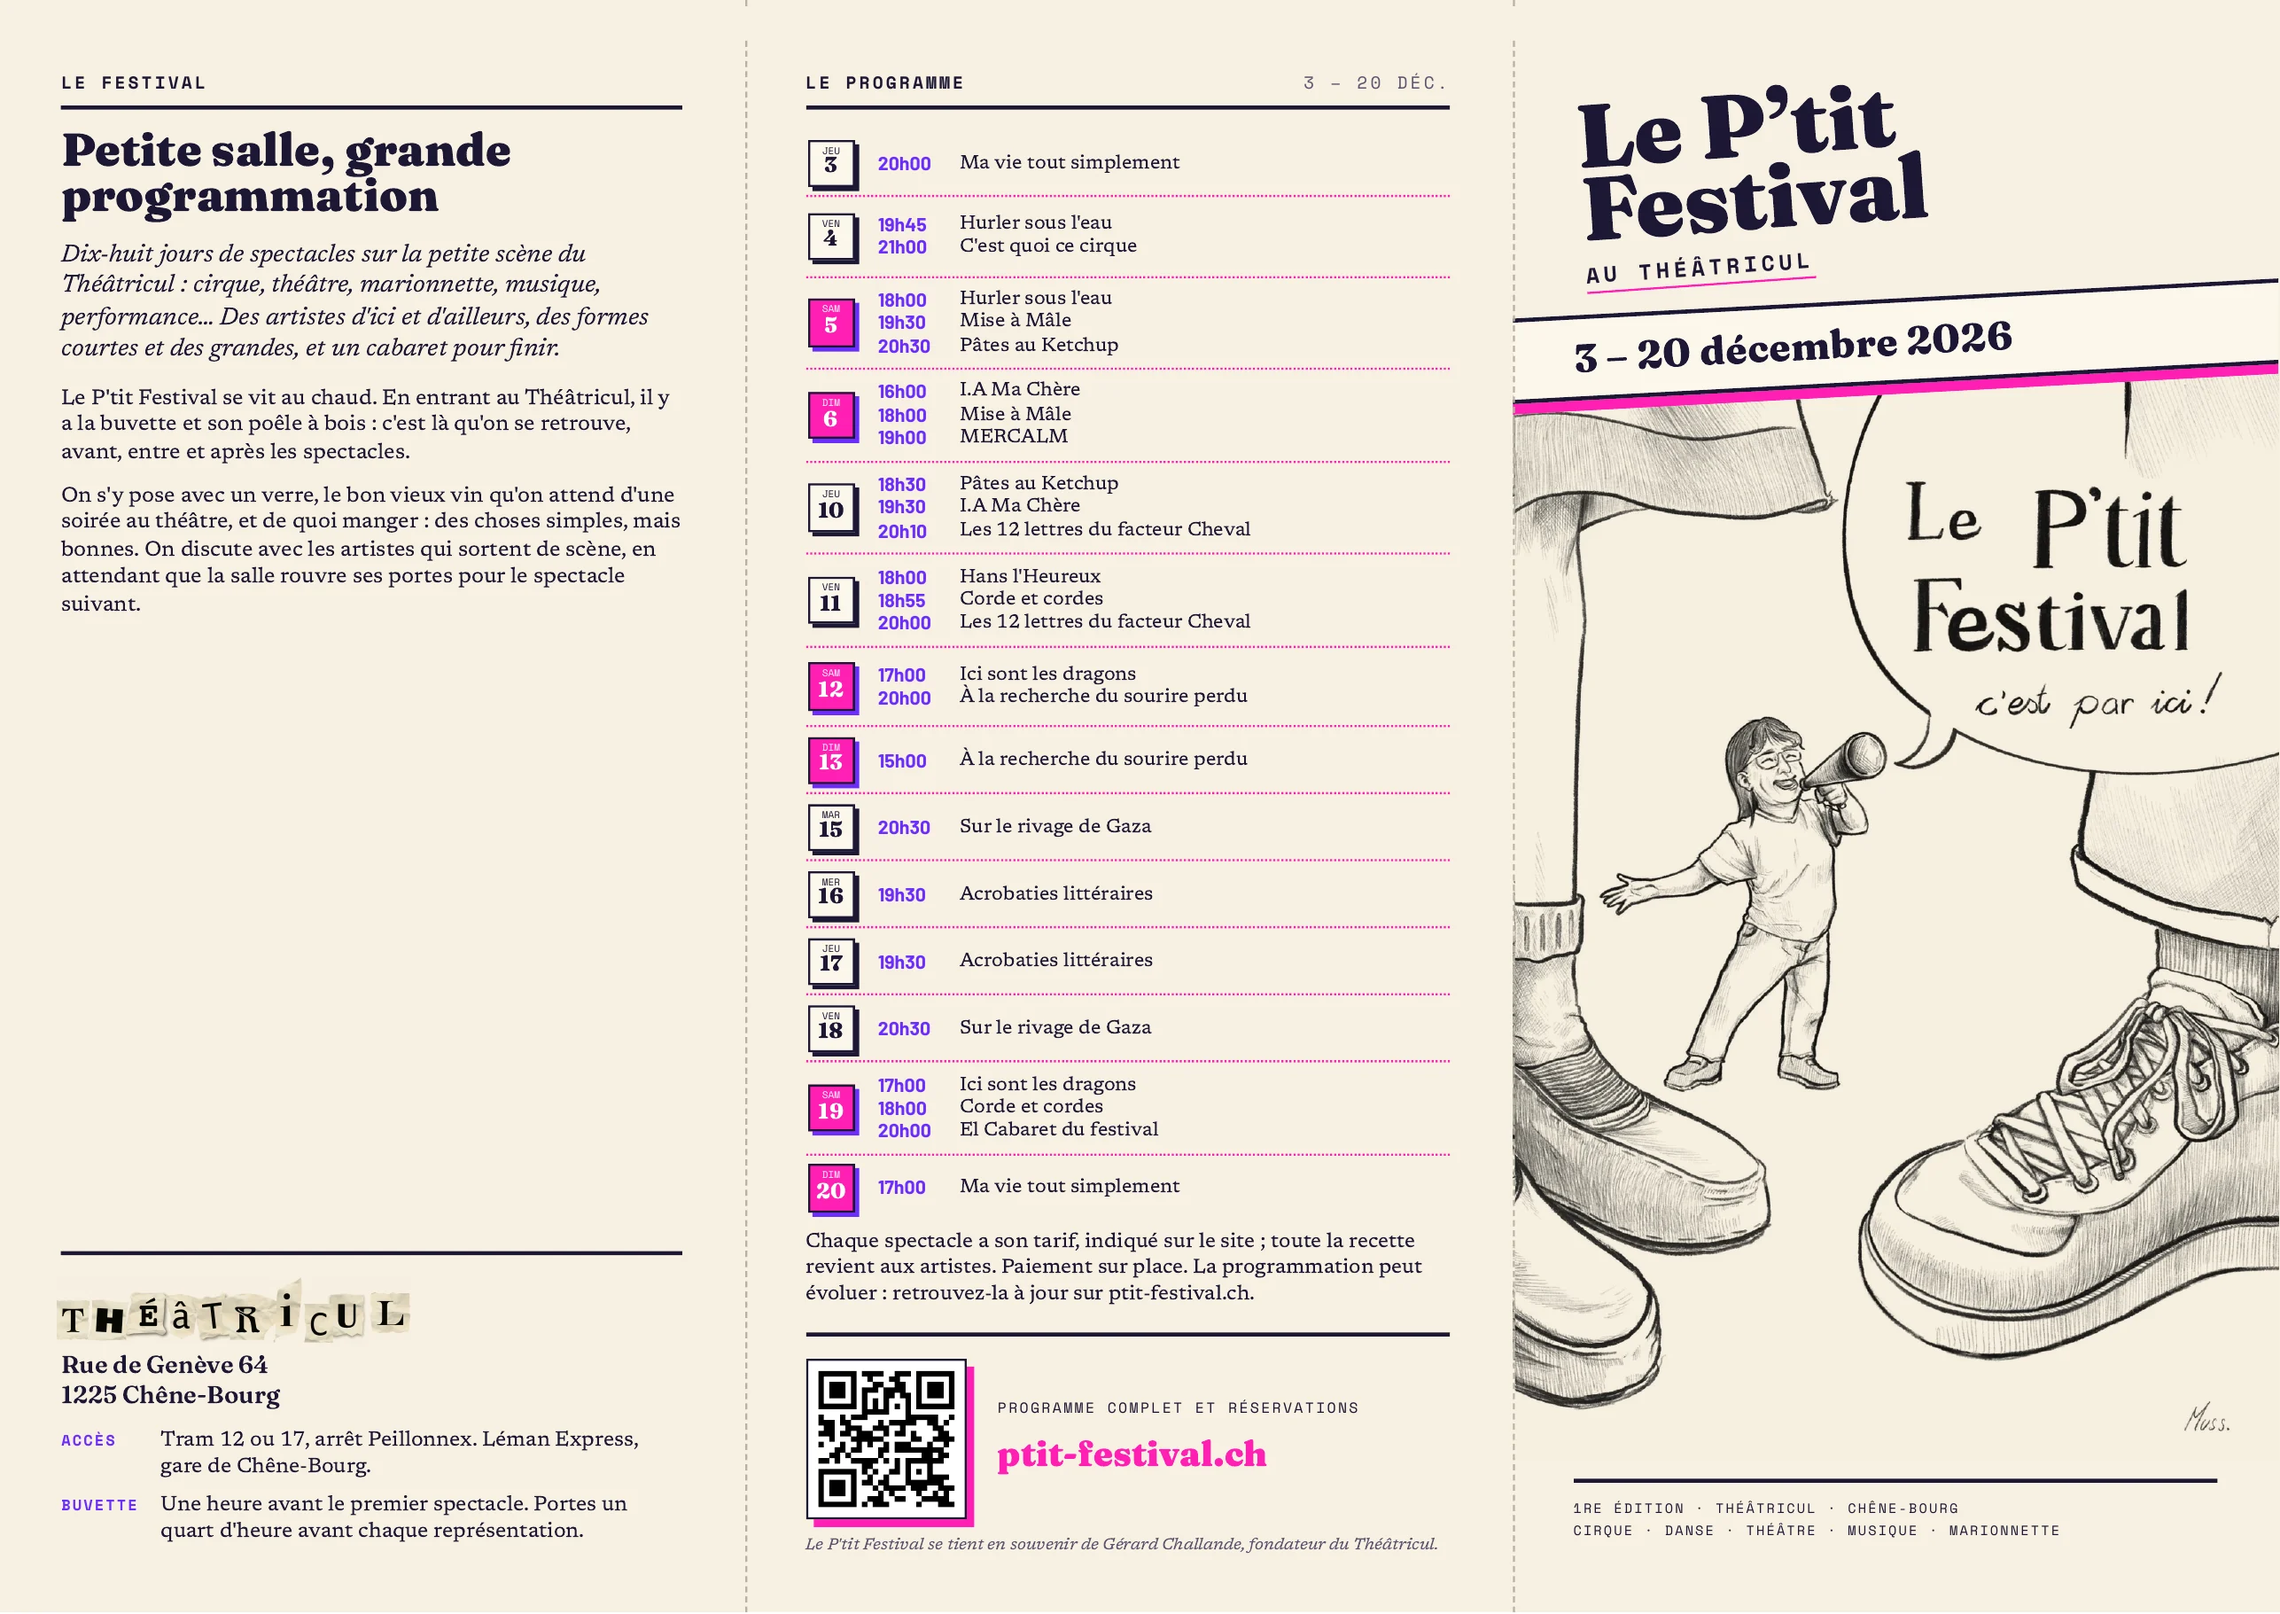
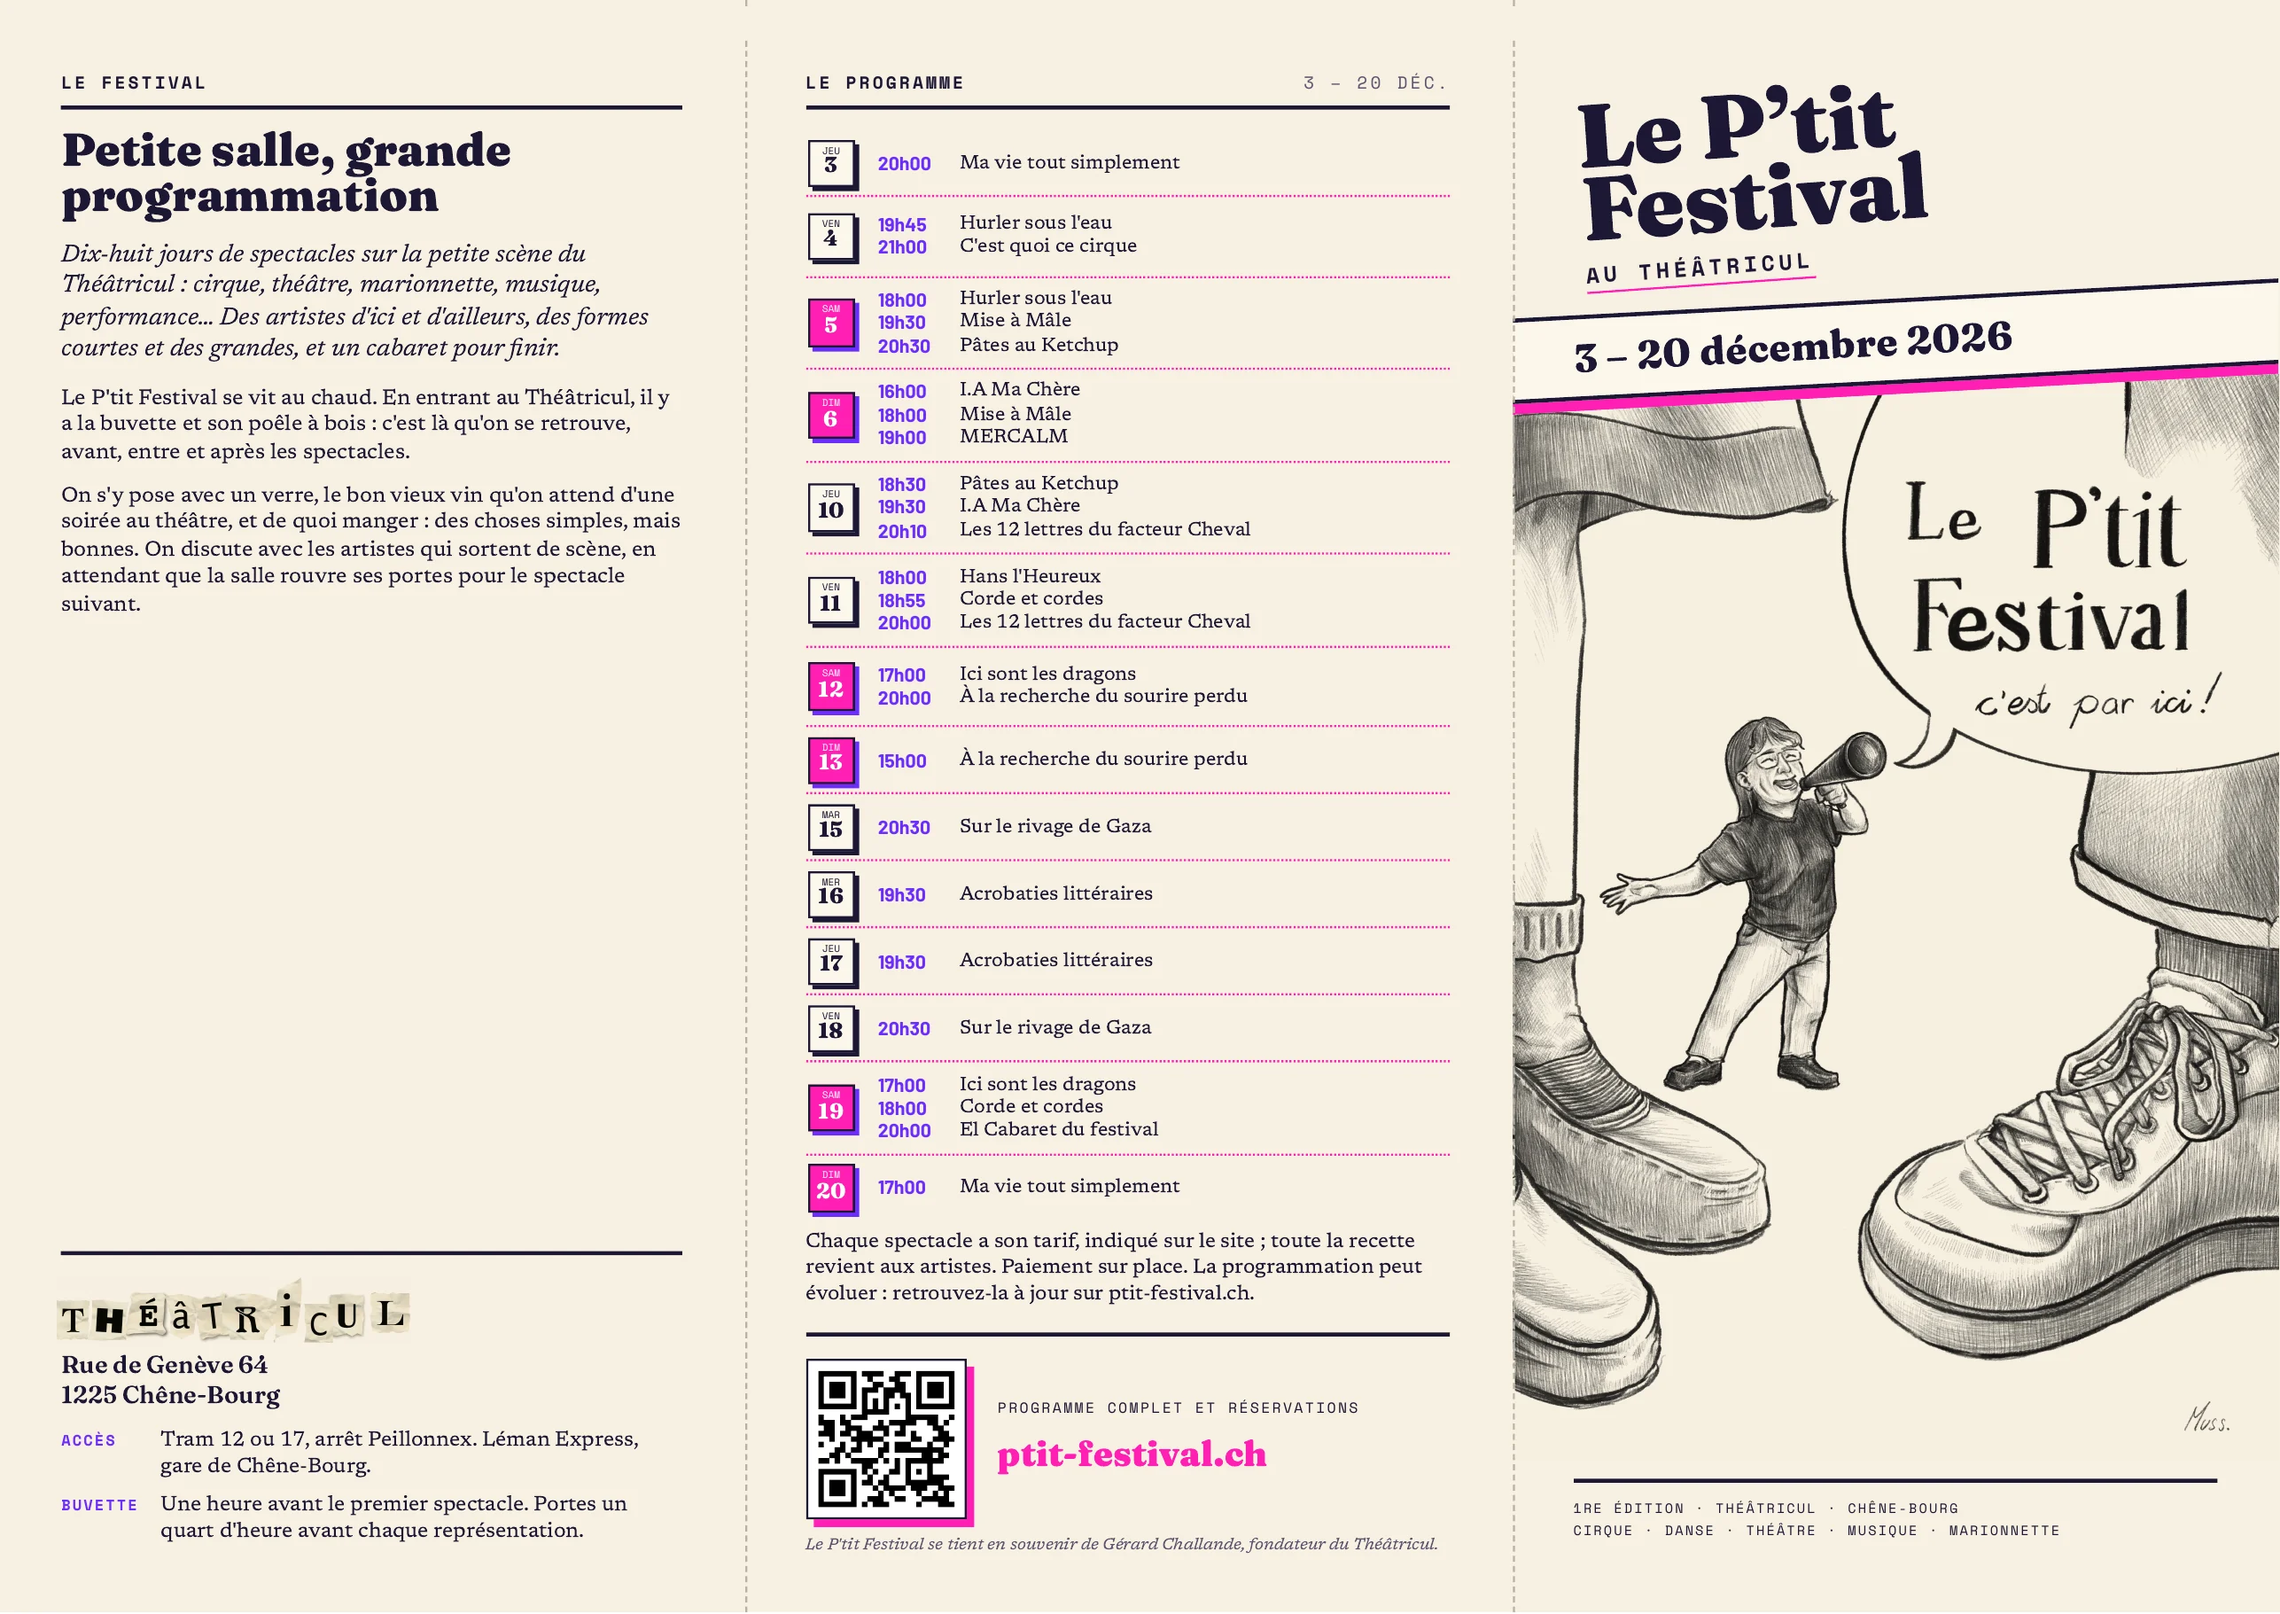
Aperçu : visuel de Sam en haute qualité (personnage de l'accueil et couverture du dépliant)
Claude-Session: https://claude.ai/code/session_01S2GuEgA2Uqk7TYUGwtDfXJ

diff --git a/apercu/depliant/index.html b/apercu/depliant/index.html
@@ -23,8 +23,8 @@ a{color:#6b2cff}
 </head>
 <body>
 <main>
-<a class="img" href="depliant-exterieur.webp?v=202611141801"><img src="depliant-exterieur.webp?v=202611141801" alt="Dépliant du P’tit Festival, extérieur : présentation, programme jour par jour, couverture" width="2573" height="1819"></a>
-<a class="img" href="depliant-interieur.webp?v=202611141801"><img src="depliant-interieur.webp?v=202611141801" alt="Dépliant du P’tit Festival, intérieur : les spectacles, avec photos, dates et tarifs" width="2573" height="1819"></a>
+<a class="img" href="depliant-exterieur.webp?v=202611161705"><img src="depliant-exterieur.webp?v=202611161705" alt="Dépliant du P’tit Festival, extérieur : présentation, programme jour par jour, couverture" width="2573" height="1819"></a>
+<a class="img" href="depliant-interieur.webp?v=202611161705"><img src="depliant-interieur.webp?v=202611161705" alt="Dépliant du P’tit Festival, intérieur : les spectacles, avec photos, dates et tarifs" width="2573" height="1819"></a>
 </main>
 </body>
 </html>

diff --git a/apercu/index.html b/apercu/index.html
@@ -46,7 +46,7 @@
     <p class="ou" id="heroLieu"></p>
     <p class="actions"><a class="btn" href="programme.html">Voir le programme</a> <a class="btn contour" href="festival.html">Découvrir le festival</a></p>
   </div>
-  <figure class="croquis"><img id="heroIllu" src="photos/illustration.webp?v=muss" alt="" aria-hidden="true" width="950" height="1247"></figure>
+  <figure class="croquis"><img id="heroIllu" src="photos/illustration.webp?v=sam" alt="" aria-hidden="true" width="950" height="1247"></figure>
 </section>
 <section class="bande pres" id="presentation">
   <div class="int cols2">
